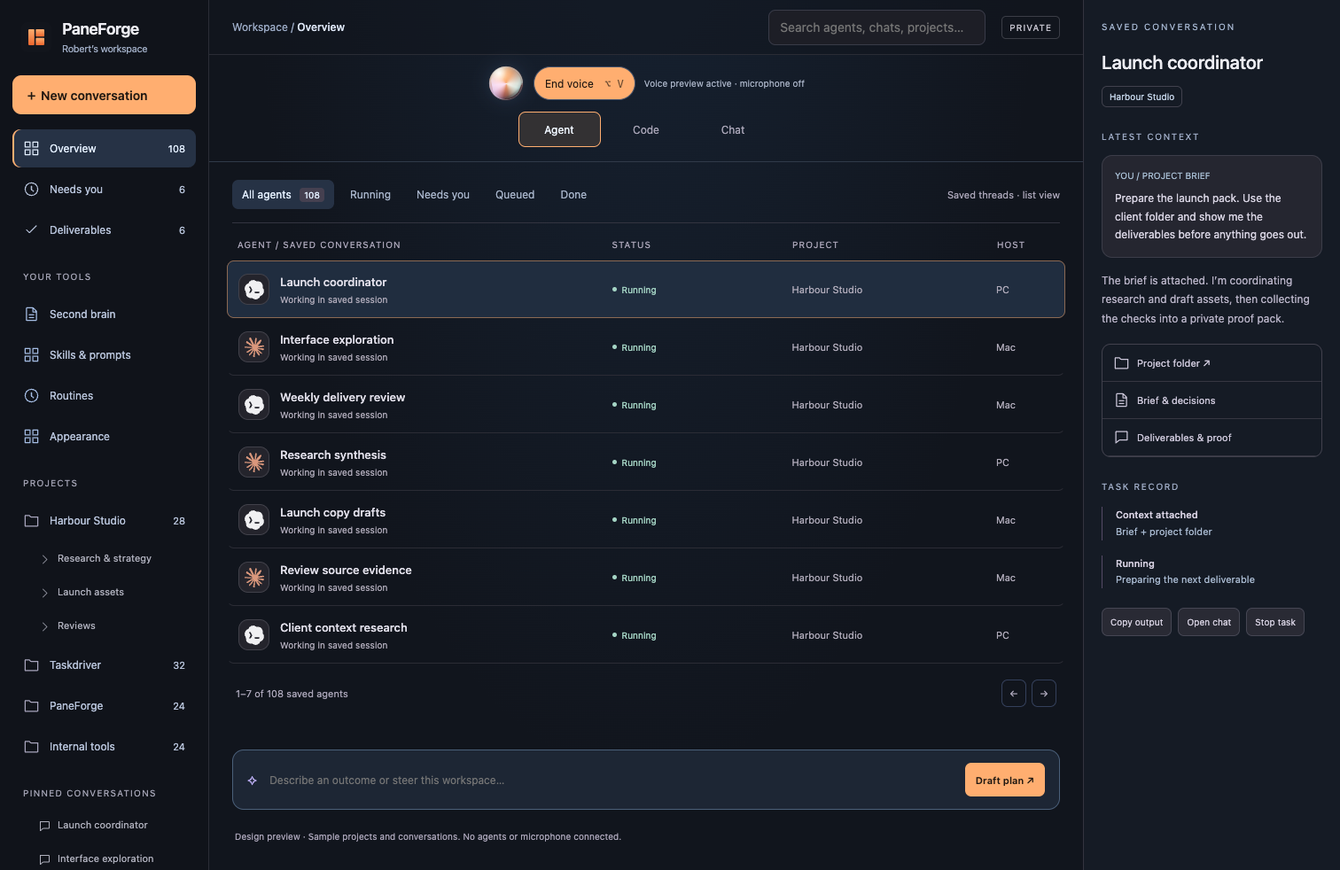
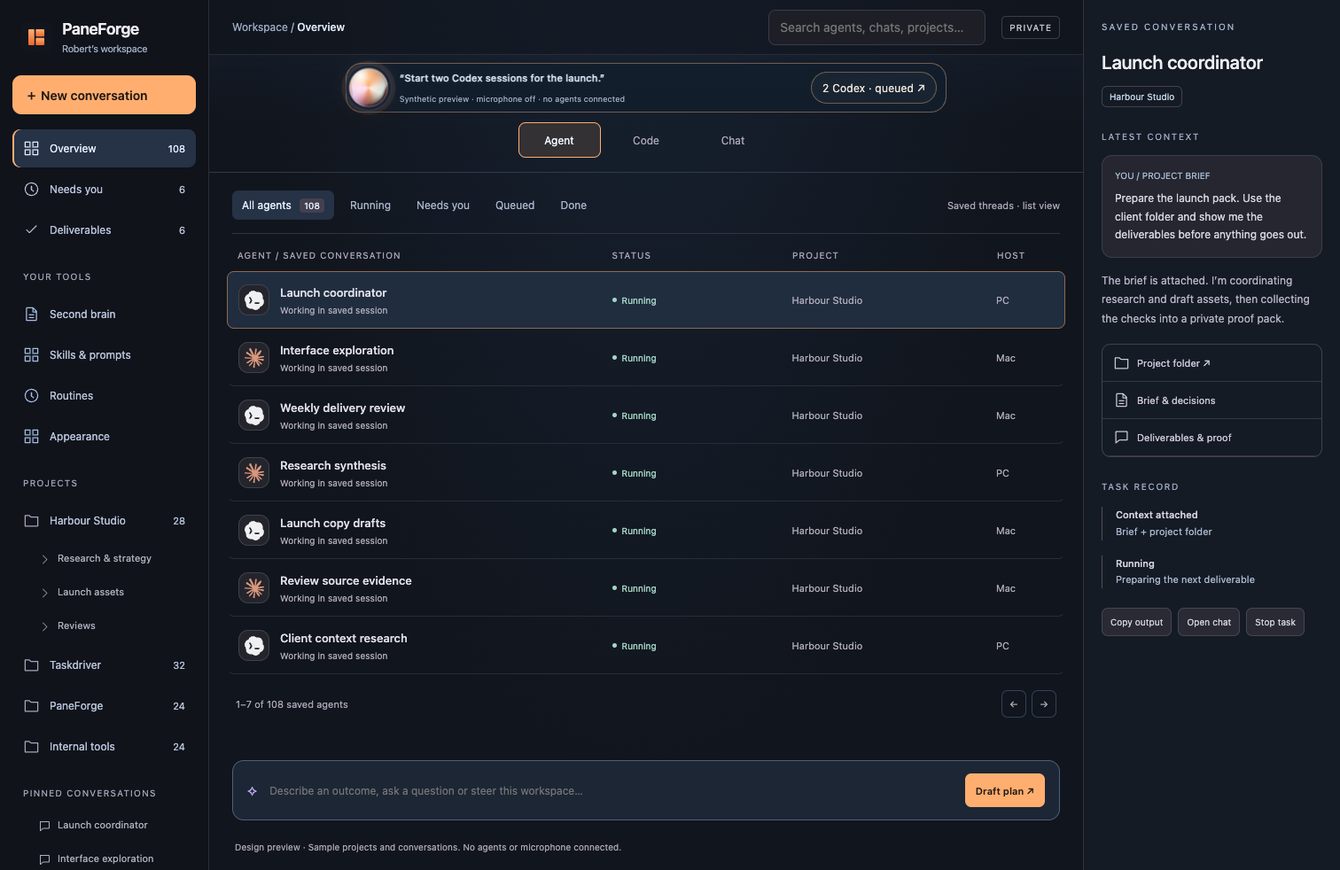
Expand centred companion into an interactive task preview bar

diff --git a/docs/design/paneforge-directions/workspace.html b/docs/design/paneforge-directions/workspace.html
@@ -1,6 +1,30 @@
 <!doctype html><html lang="en"><head><meta charset="utf-8"><meta name="viewport" content="width=device-width"><title>PaneForge / Orbital workspace concept</title><style>
 *{box-sizing:border-box}body{margin:0;background:#080b13;color:#e7ecf8;font:14px -apple-system,BlinkMacSystemFont,"Segoe UI",sans-serif}button,input{font:inherit}button,a{color:inherit}button{cursor:pointer}button:focus-visible,a:focus-visible,input:focus-visible{outline:2px solid #a19bff;outline-offset:3px}button{border:0;background:none}a{text-decoration:none}.app{display:grid;grid-template-columns:72px 250px minmax(420px,1fr) 300px;height:100vh;min-height:720px;overflow:hidden}.rail{background:#0c101c;border-right:1px solid #252e47;display:flex;align-items:center;flex-direction:column;gap:22px;padding:22px 12px}.logo{width:43px;height:43px;border-radius:12px;background:linear-gradient(135deg,#aaa0ff,#5168d8);display:grid;place-items:center;color:#111329;font-size:23px;font-weight:700;box-shadow:0 0 35px #7764ed25}.rail button{width:44px;height:44px;border-radius:12px;font-size:19px;color:#9daac5}.rail button.active{background:#26233f;color:#c6c2ff}.rail .bottom{margin-top:auto}.avatar{width:32px;height:32px;border-radius:50%;background:#304d53;display:grid;place-items:center;color:#afe2df;font-size:12px}.sidebar{background:#0f1421;border-right:1px solid #252e47;padding:24px 15px;overflow:auto}.workspace{display:flex;gap:10px;align-items:center;font-size:17px;font-weight:600;padding:0 10px 18px}.workspace small{display:block;font-size:11px;font-weight:400;color:#9eabc3;margin-top:5px}.side-label{font-size:10px;letter-spacing:1.8px;color:#94a3bd;padding:25px 12px 12px;display:flex;justify-content:space-between}.nav{display:flex;align-items:center;gap:10px;width:100%;padding:12px;border-radius:9px;color:#b6c2d9;text-align:left;margin:3px 0}.nav span:last-child{margin-left:auto;font-size:11px}.nav.selected{background:#242841;color:#ecebff;box-shadow:inset 2px 0 #a29aff}.tree{font-size:12px;padding:9px 10px 9px 29px;width:100%;color:#a4b2cb;text-align:left}.tree.selected{color:#b9b1ff}.folder-icon{color:#8f9af7}.hint{margin:24px 9px 0;border-top:1px solid #273048;padding-top:20px;font-size:12px;line-height:1.7;color:#93a3be}.hint strong{display:block;color:#c0cfe3}.content{overflow:auto;background:radial-gradient(ellipse at 75% 0,#32234f38,transparent 45%),#0c101b}.topbar{height:71px;display:flex;align-items:center;gap:18px;padding:0 28px;border-bottom:1px solid #252e47}.crumb{color:#9baac5;font-size:12px}.crumb b{color:#dce5f5;font-weight:500}.topbar .search{margin-left:auto;max-width:245px;background:#151c2c;border:1px solid #303b54;border-radius:8px;padding:9px 12px;color:#d7e1f4;width:40%}.private{font-size:10px;letter-spacing:1px;border:1px solid #354057;padding:6px 8px;border-radius:5px;color:#b4c5d9}.hero{padding:30px 29px 23px}.kicker{font-size:10px;letter-spacing:2.5px;color:#a5a0dc}h1{font-size:31px;font-weight:550;letter-spacing:-1.1px;margin:11px 0 10px}.intro{color:#9daec7;line-height:1.6;margin:0;font-size:13px}.hero-title{display:flex;align-items:center;justify-content:space-between;gap:16px}.live{border:1px solid #6c6499;border-radius:10px;padding:11px 14px;display:flex;align-items:center;gap:9px;background:#2b2444;color:#e3dfff;box-shadow:0 0 30px #8871fa12;white-space:nowrap}.wave{display:flex;gap:3px;align-items:center;height:15px}.wave i{width:2px;background:#c6bcff;height:8px}.wave i:nth-child(2){height:15px}.stats{display:grid;grid-template-columns:repeat(4,1fr);gap:12px;margin-top:26px}.stat{border:1px solid #2d3650;border-radius:12px;padding:16px;background:linear-gradient(125deg,#20223888,#131b2988)}.stat .label{font-size:11px;color:#acbad0}.stat .value{font-size:27px;margin-top:10px;letter-spacing:-1px}.stat .value small{font-size:11px;letter-spacing:0;color:#98a9c2;margin-left:7px}.green{color:#97ddcb}.amber{color:#ebcb8c}.purple{color:#c3b4ff}.controls{display:flex;align-items:center;gap:7px;margin:0 29px;border-bottom:1px solid #2c344c;padding-bottom:15px;flex-wrap:wrap}.tab{font-size:12px;color:#a7b4ca;padding:9px 11px;border-radius:7px}.tab.active{background:#272a42;color:#e0dcff}.count{background:#373653;border-radius:4px;padding:2px 5px;font-size:10px;margin-left:6px}.view{margin-left:auto;font-size:11px;color:#a4b4ce}.tablewrap{padding:0 29px 22px}.tablehead,.agent{display:grid;grid-template-columns:minmax(190px,1.5fr) minmax(90px,.7fr) minmax(100px,.8fr) 65px;gap:12px;align-items:center}.tablehead{font-size:10px;text-transform:uppercase;letter-spacing:1px;color:#99a8c1;padding:18px 12px 12px}.agent{padding:15px 12px;border:1px solid transparent;border-bottom-color:#252c40;width:100%;text-align:left;color:#cbd6e9;border-radius:8px;font-size:12px}.agent:hover{background:#171e31}.agent.chosen{background:#212239;border-color:#464165}.agent-name{display:flex;gap:12px;align-items:center;min-width:0}.agent-icon{width:33px;height:33px;background:#252f48;border:1px solid #3d4968;border-radius:10px;display:grid;place-items:center;color:#b5bafb;font-size:13px;flex-shrink:0}.agent-title{font-size:13px;font-weight:500;display:block;white-space:nowrap;overflow:hidden;text-overflow:ellipsis;max-width:230px}.agent-sub{display:block;color:#95a6bf;font-size:10px;margin-top:6px}.state{font-size:10px;display:inline-flex;gap:6px;align-items:center;color:#b6c4d9}.state i{width:5px;height:5px;border-radius:50%;background:currentColor}.state.running{color:#8fdfc5}.state.waiting{color:#efcb87}.state.queued{color:#b0a7d5}.activity{font-size:11px;color:#93a6c1}.pagination{display:flex;justify-content:space-between;align-items:center;color:#9eb0cb;font-size:11px;margin:18px 10px}.pagination button{padding:8px;border:1px solid #34405b;border-radius:7px;margin-left:6px}.inspector{background:#111724;border-left:1px solid #30364d;overflow:auto;padding:24px 20px}.inspector .label{font-size:10px;letter-spacing:2px;color:#a3b4ce}.inspect-title{font-size:21px;font-weight:500;line-height:1.35;margin:20px 0 13px}.tag{display:inline-block;border:1px solid #44516b;padding:5px 8px;border-radius:6px;font-size:10px;color:#bfcfe3}.section-title{font-size:10px;letter-spacing:1.6px;margin:27px 0 15px;color:#9eabc5}.message{background:#202b3d;border:1px solid #35435e;border-radius:12px;padding:14px;color:#cdd9ec;font-size:12px;line-height:1.7}.message small{display:block;color:#a7bdd3;margin-bottom:7px;font-size:10px}.assistant-message{font-size:12px;line-height:1.8;color:#a9bad3;margin-top:15px}.files{border:1px solid #34415b;border-radius:10px;margin-top:18px;overflow:hidden}.files button{display:block;width:100%;text-align:left;padding:11px 12px;border-bottom:1px solid #303b53;font-size:11px;color:#bed0e8}.receipt{border-left:1px solid #444969;padding-left:15px;font-size:11px;color:#a9bad1;line-height:1.7;margin-top:17px}.receipt strong{font-weight:500;color:#cfdae9;display:block}.mini-actions{display:flex;gap:7px;flex-wrap:wrap;margin-top:22px}.mini-actions button{background:#202b3e;border:1px solid #39475f;padding:9px;border-radius:7px;font-size:10px}.composer{margin:8px 29px 24px;border:1px solid #5d547d;border-radius:13px;background:#171d2e;padding:14px 16px;display:flex;align-items:center;gap:12px}.composer input{border:0;outline:none;background:none;color:#dbe4f6;min-width:0;flex:1;font-size:12px}.composer button{background:#aaa0ee;color:#141225;border-radius:7px;padding:8px 12px;font-size:11px;font-weight:600}.note{font-size:10px;color:#91a1bb;margin:0 29px 26px}.toast{position:fixed;bottom:25px;left:50%;transform:translateX(-50%);background:#29344b;border:1px solid #7183a8;color:#e7eefb;padding:14px 20px;border-radius:12px;z-index:5;max-width:80%;line-height:1.6;box-shadow:0 8px 40px #0008}.toast:empty{display:none}.empty{padding:35px 12px;color:#a9b9d3}.navlinks{font-size:11px;display:flex;flex-wrap:wrap;gap:12px;margin-top:20px;color:#b7b0e5}@media(min-width:1600px){.app{grid-template-columns:78px 270px minmax(420px,1fr) 350px}.hero{padding-top:40px}.agent{padding-top:19px;padding-bottom:19px}.inspector{padding:28px}}@media(max-width:1200px){.app{grid-template-columns:62px 215px minmax(400px,1fr)}.inspector{display:none}.agent-title{max-width:220px}.rail{padding-inline:8px}}@media(max-width:760px){.app{display:block;height:auto;min-height:100vh}.rail,.sidebar,.inspector{display:none}.topbar{padding:0 18px}.hero{padding:24px 18px}.stats{grid-template-columns:repeat(2,1fr)}.hero-title{align-items:flex-start}.live{font-size:11px;padding:10px}.controls{margin:0 18px}.tablewrap{padding:0 8px 18px}.tablehead,.agent{grid-template-columns:minmax(170px,1fr) 85px}.tablehead>*:nth-child(n+3),.agent>*:nth-child(n+3){display:none}.agent-title{max-width:210px}.composer{margin-inline:18px}.note{margin-inline:18px}.search{display:none}h1{font-size:27px}}@media(prefers-reduced-motion:no-preference){.agent,.tab,.nav{transition:background .16s ease,border-color .16s ease}.inspector.changed{animation:reveal .2s ease-out}@keyframes reveal{from{opacity:.5;transform:translateX(7px)}to{opacity:1;transform:translateX(0)}}}
-</style><link rel="stylesheet" href="workspace-polish.css"></head><body><div class="app"><aside class="sidebar"><div class="workspace"><img class="brand-mark" src="assets/brands/paneforge.svg" alt=""><div>PaneForge<small>Robert’s workspace</small></div></div><button class="new-chat" id="new-chat">＋ New conversation</button><button class="nav selected" data-folder="all">▦ &nbsp; Overview <span>108</span></button><button class="nav" data-filter="waiting">◷ &nbsp; Needs you <span>6</span></button><button class="nav" data-filter="completed">✓ &nbsp; Deliverables <span>6</span></button><div class="side-label">YOUR TOOLS</div><button class="nav tool-nav" data-tool="memory">Second brain</button><button class="nav tool-nav" data-tool="skills">Skills & prompts</button><button class="nav tool-nav" data-tool="routines">Routines</button><button class="nav tool-nav" id="appearance">Appearance</button><div class="side-label">PROJECTS</div><button class="nav" data-folder="Harbour Studio"><span class="folder-icon">▱</span> Harbour Studio <span>28</span></button><button class="tree" data-query="Research">⌄ &nbsp; Research & strategy</button><button class="tree" data-query="Launch">⌄ &nbsp; Launch assets</button><button class="tree" data-query="Review">⌄ &nbsp; Reviews</button><button class="nav" data-folder="Taskdriver"><span class="folder-icon">▱</span> Taskdriver <span>32</span></button><button class="nav" data-folder="PaneForge"><span class="folder-icon">▱</span> PaneForge <span>24</span></button><button class="nav" data-folder="Internal tools"><span class="folder-icon">▱</span> Internal tools <span>24</span></button><div class="side-label">PINNED CONVERSATIONS</div><button class="tree" data-agent="0">◇ &nbsp; Launch coordinator</button><button class="tree" data-agent="1">◇ &nbsp; Interface exploration</button><button class="tree" data-agent="2">◇ &nbsp; Weekly delivery review</button><div class="hint"><strong>Persistent work, quiet interface.</strong>Projects hold context, files and saved conversations. Open the details when you need them.</div><div class="navlinks"><a href="gallery.html">Earlier designs ↗</a><a href="branding/index.html">Names & logos ↗</a></div></aside><main class="content"><header class="topbar"><span class="crumb">Workspace / <b id="breadcrumb">Overview</b></span><input class="search" aria-label="Search saved agents and conversations" placeholder="Search agents, chats, projects…"><span class="private">PRIVATE</span></header><div class="companion-dock" id="voice-panel" data-voice="idle"><div class="voice-art" aria-hidden="true"><div class="liquid-orb"><div class="orb-flow flow-one"></div><div class="orb-flow flow-two"></div><div class="orb-glass"></div></div></div><button id="voice-toggle" aria-pressed="false" aria-label="Start voice preview">Start voice <kbd>⌥ V</kbd></button><span id="voice-status" role="status">Preview · microphone off</span></div><nav class="mode-nav" aria-label="Workspace view"><button data-mode="agent" aria-pressed="true">Agent</button><button data-mode="code" aria-pressed="false">Code</button><button data-mode="chat" aria-pressed="false">Chat</button></nav><div data-mode-panel="agent"><div class="controls"><button class="tab active" data-filter="all">All agents <span class="count">108</span></button><button class="tab" data-filter="running">Running</button><button class="tab" data-filter="waiting">Needs you</button><button class="tab" data-filter="queued">Queued</button><button class="tab" data-filter="completed">Done</button><span class="view">Saved threads · list view</span></div><section class="tablewrap"><div class="tablehead"><span>Agent / saved conversation</span><span>Status</span><span>Project</span><span>Host</span></div><div id="agents"></div><div class="pagination"><span id="range"></span><div><button id="prev" aria-label="Previous page">←</button><button id="next" aria-label="Next page">→</button></div></div></section></div><section data-mode-panel="code" class="mode-content" hidden><div class="view-heading"><img src="assets/brands/codex.svg" alt="Codex"><div><h2>Improve session titles</h2><p>PaneForge / session naming · saved code session</p></div><span class="sample-label">SAMPLE</span></div><div class="code-split"><div class="file-tree">SESSION FILES<br><br>▸ src/sessions<br><br>title-policy.ts<br><br>title-policy.test.ts</div><pre><code><span class="code-comment">// Proposed policy, not implemented runtime code</span>
+</style><link rel="stylesheet" href="workspace-polish.css"></head><body><div class="app"><aside class="sidebar"><div class="workspace"><img class="brand-mark" src="assets/brands/paneforge.svg" alt=""><div>PaneForge<small>Robert’s workspace</small></div></div><button class="new-chat" id="new-chat">＋ New conversation</button><button class="nav selected" data-folder="all">▦ &nbsp; Overview <span>108</span></button><button class="nav" data-filter="waiting">◷ &nbsp; Needs you <span>6</span></button><button class="nav" data-filter="completed">✓ &nbsp; Deliverables <span>6</span></button><div class="side-label">YOUR TOOLS</div><button class="nav tool-nav" data-tool="memory">Second brain</button><button class="nav tool-nav" data-tool="skills">Skills & prompts</button><button class="nav tool-nav" data-tool="routines">Routines</button><button class="nav tool-nav" id="appearance">Appearance</button><div class="side-label">PROJECTS</div><button class="nav" data-folder="Harbour Studio"><span class="folder-icon">▱</span> Harbour Studio <span>28</span></button><button class="tree" data-query="Research">⌄ &nbsp; Research & strategy</button><button class="tree" data-query="Launch">⌄ &nbsp; Launch assets</button><button class="tree" data-query="Review">⌄ &nbsp; Reviews</button><button class="nav" data-folder="Taskdriver"><span class="folder-icon">▱</span> Taskdriver <span>32</span></button><button class="nav" data-folder="PaneForge"><span class="folder-icon">▱</span> PaneForge <span>24</span></button><button class="nav" data-folder="Internal tools"><span class="folder-icon">▱</span> Internal tools <span>24</span></button><div class="side-label">PINNED CONVERSATIONS</div><button class="tree" data-agent="0">◇ &nbsp; Launch coordinator</button><button class="tree" data-agent="1">◇ &nbsp; Interface exploration</button><button class="tree" data-agent="2">◇ &nbsp; Weekly delivery review</button><div class="hint"><strong>Persistent work, quiet interface.</strong>Projects hold context, files and saved conversations. Open the details when you need them.</div><div class="navlinks"><a href="gallery.html">Earlier designs ↗</a><a href="branding/index.html">Names & logos ↗</a></div></aside><main class="content"><header class="topbar"><span class="crumb">Workspace / <b id="breadcrumb">Overview</b></span><input class="search" aria-label="Search saved agents and conversations" placeholder="Search agents, chats, projects…"><span class="private">PRIVATE</span></header><div class="companion-dock" id="voice-panel" data-voice="idle">
+          <div class="companion-shell"><button
+            class="companion-orb"
+            id="voice-toggle"
+            aria-pressed="false"
+            aria-expanded="false"
+            aria-label="Start companion preview"
+          >
+            <span class="voice-art" aria-hidden="true">
+              <span class="liquid-orb">
+                <span class="orb-flow flow-one"></span>
+                <span class="orb-flow flow-two"></span>
+                <span class="orb-glass"></span>
+              </span>
+            </span>
+          </button>
+          <div class="companion-expanded" aria-live="polite">
+            <span class="companion-spark" aria-hidden="true"></span>
+            <span class="companion-transcript">“Start two Codex sessions for the launch.”</span>
+            <span class="companion-preview">Synthetic preview · microphone off · no agents connected</span>
+            <button class="companion-action-chip" id="companion-action">2 Codex · queued ↗</button>
+          </div>
+          </div><span id="voice-status" class="sr-only" role="status">Companion preview off. Microphone off. No agents connected.</span>
+        </div>
+        <nav class="mode-nav" aria-label="Workspace view"><button data-mode="agent" aria-pressed="true">Agent</button><button data-mode="code" aria-pressed="false">Code</button><button data-mode="chat" aria-pressed="false">Chat</button></nav><div data-mode-panel="agent"><div class="controls"><button class="tab active" data-filter="all">All agents <span class="count">108</span></button><button class="tab" data-filter="running">Running</button><button class="tab" data-filter="waiting">Needs you</button><button class="tab" data-filter="queued">Queued</button><button class="tab" data-filter="completed">Done</button><span class="view">Saved threads · list view</span></div><section class="tablewrap"><div class="tablehead"><span>Agent / saved conversation</span><span>Status</span><span>Project</span><span>Host</span></div><div id="agents"></div><div class="pagination"><span id="range"></span><div><button id="prev" aria-label="Previous page">←</button><button id="next" aria-label="Next page">→</button></div></div></section></div><section data-mode-panel="code" class="mode-content" hidden><div class="view-heading"><img src="assets/brands/codex.svg" alt="Codex"><div><h2>Improve session titles</h2><p>PaneForge / session naming · saved code session</p></div><span class="sample-label">SAMPLE</span></div><div class="code-split"><div class="file-tree">SESSION FILES<br><br>▸ src/sessions<br><br>title-policy.ts<br><br>title-policy.test.ts</div><pre><code><span class="code-comment">// Proposed policy, not implemented runtime code</span>
 function chooseTitle(session) {
   if (session.manuallyNamed) {
     return session.title;

diff --git a/docs/design/paneforge-directions/workspace-polish.css b/docs/design/paneforge-directions/workspace-polish.css
@@ -11,3 +11,29 @@ body{background:#101115;color:#ececf2}.app{grid-template-columns:64px 222px minm
 @media(prefers-reduced-motion:no-preference){[data-voice=speaking] .orb-flow{animation:liquid-turn 3s linear infinite}[data-voice=speaking] .flow-two{animation-direction:reverse;animation-duration:4.3s}[data-voice=speaking] .liquid-orb{animation:liquid-breathe .8s ease-in-out infinite alternate}@keyframes liquid-turn{to{transform:rotate(335deg)}}@keyframes liquid-breathe{to{transform:scale(.93);box-shadow:inset -5px -7px 12px #040c2599,inset 2px 2px 6px #defaff88,0 0 23px #8baff350}}}body.motion-paused .companion-dock *{animation-play-state:paused!important}@media(prefers-reduced-motion:reduce){.companion-dock *{animation:none!important}}
 @media(min-width:1600px){.app{grid-template-columns:250px minmax(0,1fr) 320px}.app:has(.inspector[hidden]){grid-template-columns:250px minmax(0,1fr)}}@media(max-width:1200px){.app,.app:has(.inspector[hidden]){grid-template-columns:220px minmax(0,1fr)}}@media(max-width:760px){.app,.app:has(.inspector[hidden]){display:block}.sidebar{display:none}.companion-dock{height:65px;gap:8px}.companion-dock>span{font-size:9px}.companion-dock button{min-height:44px}.mode-nav button{min-height:44px}.mode-nav{margin-bottom:16px}.content{min-height:100vh}.conversation-context{gap:16px}.companion-dock kbd{display:none}}
 :root{--personal-accent:#ffae70;--personal-accent-deep:#ed672e}.new-chat,.composer button{background:var(--personal-accent);color:#201811}.nav.selected{box-shadow:inset 2px 0 var(--personal-accent)}.mode-nav button[aria-pressed=true]{border-color:var(--personal-accent);background:color-mix(in srgb,var(--personal-accent) 12%,#17202b)}.agent.chosen{border-color:color-mix(in srgb,var(--personal-accent) 48%,#202938)}.companion-dock button[aria-pressed=true]{background:var(--personal-accent);color:#201811}.liquid-orb{background:radial-gradient(circle at 30% 20%,#fff4df,var(--personal-accent) 30%,var(--personal-accent-deep) 65%,#191421 90%)}.accent-options{display:flex;flex-wrap:wrap;gap:10px}.accent-options button{min-height:46px;border:1px solid #536174;border-radius:9px;display:flex;align-items:center;gap:8px;padding:10px 13px}.accent-options button[aria-pressed=true]{border-color:var(--personal-accent);background:#ffffff0c}.accent-options span{width:16px;height:16px;background:var(--swatch);border-radius:50%}button:focus-visible{outline-color:var(--personal-accent)}
+
+/* Companion: one centred control, with detail only while the synthetic preview is on. */
+.sr-only{position:absolute;width:1px;height:1px;padding:0;margin:-1px;overflow:hidden;clip:rect(0,0,0,0);white-space:nowrap;border:0}
+.companion-dock{position:relative;isolation:isolate;display:grid;grid-template-columns:1fr auto 1fr;align-items:center;gap:0;min-height:70px;height:auto;padding:11px 24px 9px;border-bottom:0;background:linear-gradient(180deg,#1823345c,transparent)}
+.companion-orb{grid-column:2;display:grid;place-items:center;width:50px!important;min-width:50px!important;height:50px!important;min-height:50px!important;padding:0!important;border:1px solid #ffffff1f!important;border-radius:50%!important;background:#111a28!important;color:inherit;box-shadow:0 8px 24px #0007,0 0 0 0 color-mix(in srgb,var(--personal-accent) 0%,transparent);transition:transform .22s ease,box-shadow .22s ease,border-color .22s ease}
+.companion-orb:hover{border-color:color-mix(in srgb,var(--personal-accent) 70%,#fff);transform:translateY(-1px)}
+.companion-orb .voice-art{width:42px;height:42px;display:grid;place-items:center}.companion-orb .liquid-orb{display:block;width:42px;height:42px}
+.companion-expanded{grid-column:1/-1;justify-self:center;width:min(680px,100%);display:grid;grid-template-columns:auto minmax(0,1fr) auto;align-items:center;gap:9px;max-height:0;min-height:0;overflow:hidden;opacity:0;visibility:hidden;transform:translateY(-5px);transition:max-height .24s ease,opacity .18s ease,transform .24s ease,visibility 0s linear .24s;font-size:11px;color:#dbe7f7}
+.companion-transcript{min-width:0;overflow:hidden;text-overflow:ellipsis;white-space:nowrap;font-weight:520;letter-spacing:.01em}.companion-preview{grid-column:2;color:#9facc1;font-size:9px;white-space:nowrap;overflow:hidden;text-overflow:ellipsis}.companion-spark{width:6px;height:6px;border-radius:50%;background:var(--personal-accent);box-shadow:0 0 12px var(--personal-accent)}
+.companion-action-chip{grid-column:3;grid-row:1/3;align-self:center;white-space:nowrap;border:1px solid color-mix(in srgb,var(--personal-accent) 42%,#40516a);border-radius:99px;padding:6px 9px;background:color-mix(in srgb,var(--personal-accent) 10%,#182230);color:#f7e3cf;font-size:9px;letter-spacing:.02em}
+[data-voice=speaking].companion-dock{padding-bottom:12px}[data-voice=speaking] .companion-orb{border-color:var(--personal-accent);box-shadow:0 8px 24px #0007,0 0 0 5px color-mix(in srgb,var(--personal-accent) 15%,transparent)}[data-voice=speaking] .companion-expanded{max-height:52px;min-height:44px;margin-top:8px;padding:5px 9px;border:1px solid #ffffff14;border-radius:10px;background:#121d2b8c;opacity:1;visibility:visible;transform:translateY(0);transition-delay:0s}
+@media(prefers-reduced-motion:no-preference){[data-voice=speaking] .companion-orb{animation:companion-arrive .52s cubic-bezier(.2,.8,.2,1) both}[data-voice=speaking] .companion-spark{animation:companion-spark 1.15s ease-in-out infinite alternate}@keyframes companion-arrive{0%{transform:scale(.72);box-shadow:0 0 0 0 color-mix(in srgb,var(--personal-accent) 45%,transparent)}64%{transform:scale(1.08)}100%{transform:scale(1)}}@keyframes companion-spark{to{transform:scale(1.75);opacity:.48}}}
+body.motion-paused .companion-orb,body.motion-paused .companion-expanded *{animation-play-state:paused!important}
+@media(max-width:760px){.companion-dock{padding-inline:16px}.companion-expanded{grid-template-columns:auto minmax(0,1fr)}.companion-action-chip{display:none}.companion-preview{grid-column:2}.companion-orb{width:48px!important;min-width:48px!important;height:48px!important;min-height:48px!important}}
+@media(prefers-reduced-motion:reduce){.companion-orb,.companion-expanded{transition:none!important}.companion-orb,.companion-expanded *{animation:none!important}}
+
+/* Expand horizontally within one row so the work area stays still. */
+.companion-dock{display:flex;justify-content:center;height:76px;min-height:76px;padding:10px 24px;box-sizing:border-box}
+.companion-shell{display:flex;align-items:center;justify-content:flex-start;gap:0;width:50px;max-width:100%;height:56px;border:1px solid transparent;border-radius:18px;box-sizing:border-box;transition:width .28s cubic-bezier(.2,.8,.2,1),background .2s,border-color .2s}
+.companion-orb{flex:0 0 50px;box-shadow:none;margin:0;z-index:1}
+.companion-expanded{display:grid;grid-template-columns:minmax(0,1fr) auto;gap:3px 12px;width:0;max-height:none;height:auto;min-width:0;border:0!important;background:none!important;padding:0!important;transform:none;flex:1;box-sizing:border-box}
+.companion-spark{display:none}.companion-preview{grid-column:1}.companion-transcript{grid-column:1}.companion-action-chip{grid-column:2;grid-row:1/3;align-self:center!important;min-height:36px!important;white-space:nowrap;cursor:pointer;background:#ffffff08!important;border:1px solid color-mix(in srgb,var(--personal-accent) 40%,transparent)!important;color:#f0e6dd!important}
+[data-voice=speaking] .companion-shell{width:min(720px,100%);gap:10px;padding-right:10px;background:#121d2b;border-color:color-mix(in srgb,var(--personal-accent) 38%,#263442)}
+[data-voice=speaking] .companion-expanded{width:auto;max-height:none;margin:0;padding:0;opacity:1;visibility:visible;transform:none}
+@media(max-width:760px){.companion-dock{padding-inline:12px}.companion-preview{font-size:8px}.companion-action-chip{display:none}.companion-shell{border-radius:16px}.companion-expanded{grid-template-columns:minmax(0,1fr)}}
+@media(prefers-reduced-motion:reduce){.companion-shell{transition:none!important}}

diff --git a/docs/design/paneforge-directions/workspace-polish.js b/docs/design/paneforge-directions/workspace-polish.js
@@ -6,7 +6,16 @@ for(const el of document.querySelectorAll('.nav,.tree,.files button')){const nod
 const panel=document.querySelector('#voice-panel');
 let voiceOn=false;
 const voiceButton=document.querySelector('#voice-toggle');
-function toggleVoice(){voiceOn=!voiceOn;panel.dataset.voice=voiceOn?'speaking':'idle';voiceButton.setAttribute('aria-pressed',String(voiceOn));voiceButton.setAttribute('aria-label',voiceOn?'End voice preview':'Start voice preview');voiceButton.innerHTML=(voiceOn?'End voice':'Start voice')+' <kbd>⌥ V</kbd>';document.querySelector('#voice-status').textContent=voiceOn?'Voice preview active · microphone off':'Preview · microphone off'}
+function toggleVoice(){
+  voiceOn=!voiceOn;
+  panel.dataset.voice=voiceOn?'speaking':'idle';
+  voiceButton.setAttribute('aria-pressed',String(voiceOn));
+  voiceButton.setAttribute('aria-expanded',String(voiceOn));
+  voiceButton.setAttribute('aria-label',voiceOn?'End companion preview':'Start companion preview');
+  document.querySelector('#voice-status').textContent=voiceOn
+    ?'Companion preview active. Synthetic event only. Microphone off. No agents connected.'
+    :'Companion preview off. Microphone off. No agents connected.';
+}
 voiceButton.onclick=toggleVoice;
 document.addEventListener('keydown',event=>{if(event.altKey&&event.code==='KeyV'&&!event.repeat&&!event.ctrlKey&&!event.metaKey){event.preventDefault();toggleVoice()}});
 let visible=true;
@@ -37,3 +46,6 @@ try{const saved=localStorage.getItem('paneforge-workspace-accent');if(accents[sa
 setAccent(accent);
 document.querySelector('#appearance').insertAdjacentHTML('afterbegin',icon('grid'));
 document.querySelector('#appearance').onclick=()=>{document.querySelector('#tool-title').textContent='Appearance';document.querySelector('#tool-content').innerHTML='<p>Make PaneForge yours. Your accent also colours the PaneForge logo.</p><div class="accent-options" role="group" aria-label="Accent colour">'+Object.entries(accents).map(([name,colours])=>`<button data-accent="${name}" aria-pressed="${name===accent}" style="--swatch:${colours[0]}"><span aria-hidden="true"></span>${name[0].toUpperCase()+name.slice(1)}</button>`).join('')+'</div><p>Orange is the default. Claude and Codex keep their original brand colours.</p>';document.querySelectorAll('[data-accent]').forEach(b=>b.onclick=()=>setAccent(b.dataset.accent));document.querySelector('#tool-dialog').showModal()};
+
+// Inspect a simulated operation without starting a worker.
+document.querySelector('#companion-action').onclick=()=>{document.querySelector('#tool-title').textContent='Two Codex sessions';document.querySelector('#tool-content').innerHTML='<p class="sample-label">SIMULATED OPERATION · NO SESSIONS LAUNCHED</p><h3>1. Research the launch brief</h3><p>Queued · Harbour Studio · subscription worker</p><h3>2. Review the project files</h3><p>Queued · Harbour Studio · subscription worker</p><p>In the connected app, this chip opens the real task record with session links, progress and output. It changes to running only after the workers confirm startup.</p>';document.querySelector('#tool-dialog').showModal()};
